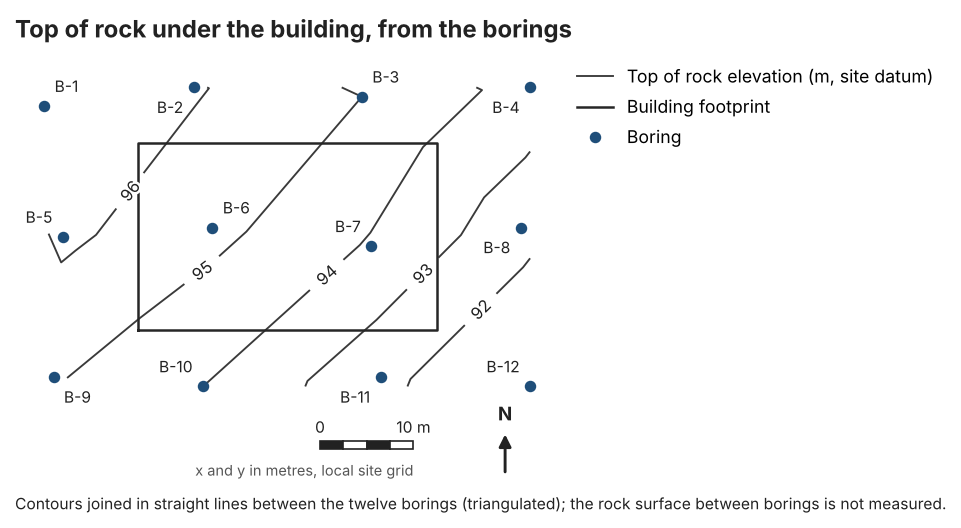
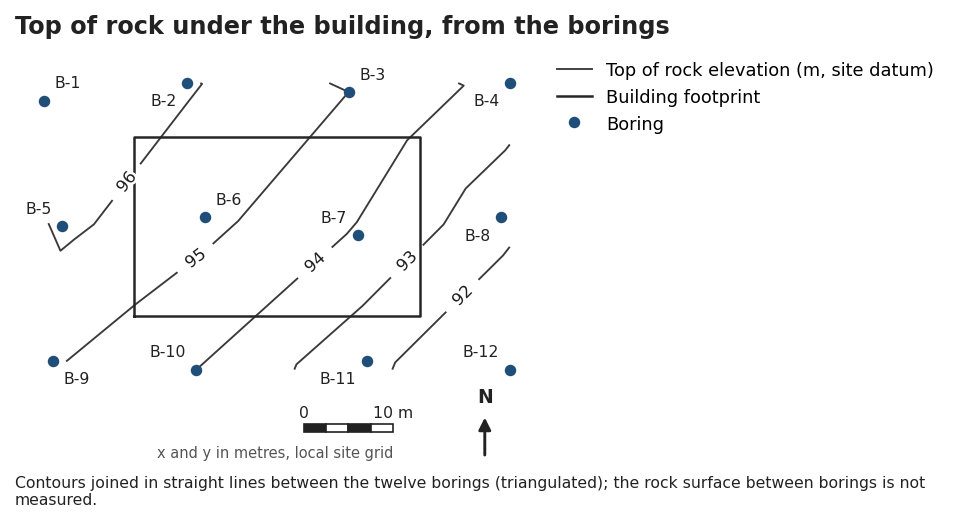
GM-315: review fixes in CHECK.md, the plot_data example figures re-drawn

diff --git a/module_work/gm315/CHECK.md b/module_work/gm315/CHECK.md
@@ -279,3 +279,25 @@ model-written code, so hosts with plot code off get these figures.
   got better or worse is GM-314's to measure.
 - The page tool has no `height_in`, `width_in`, `dpi` or `grid` argument
   (before this change too).
+
+## Review fixes (2026-11-13)
+
+Independent review: `notes/review_gm315.txt` in the drawings lead's folder (not in the repo). One line per finding:
+
+- B1 fixed: a single plot's footnote is broken to the figure's width (`data_plot.py`, panel_plot's `_fit_text`); the contour example's PNG is 6.37 in wide, smallest lettering 7.0 pt as printed (was 6.85 in, 6.64 pt; its test failed).
+- B2 fixed (test): `test_fill_bands_dimension_and_arrow_are_drawn` put the arrow's tail at 25 kPa, and its text crossed the diagram (the layout check was right); the tail is now at 34 kPa. B1 and B2 were the main CI job's failures.
+- B3 fixed: `reference_chart` with panels, or with a contour and no series, is refused by name in `run_plot_data`; it crashed with KeyError 'series' in the overlay.
+- B4 fixed: a contour grid over 250,000 values, more than 50,000 scattered points or more than 30 chosen levels is refused in plain words; at most 3 numbers per level (longest lines first), none past 300 separate pieces (warned). A noisy 100 x 100 grid: 100 s before, 0.8 s now.
+- B5 fixed: a panel's title or xlabel, a band label, dimension or arrow text that is not text, and a bad band or arrow colour, are refused under their own place (`panels[0] bands[0] label must be text`), not as "footnote" or "annotations[0]".
+- B6 fixed: `legend`'s description says that with panels there is a legend only when it is true (+29 characters; both pages' fingerprints must be re-recorded at the merge).
+- B7 not fixed, for the lead: where plot code is off, `nearest_example` attaches no example to a pile or settlement brief (the redraws' names need 'panels'); the fix changes `funhouse_agent/deep/tests/test_figure_runs.py:198` and `figure_helper.py` code, or renames the examples.
+- C1 not fixed: `to_dict()` carries `contour`, `panels` and `footnote` on every result; the tool's response is unchanged.
+- C2 fixed: `width_in` in the panels' echo is a plain float.
+- C3 fixed: one chosen level has no twin "at a single level", not "unevenly spaced".
+- C4 fixed: an all-missing z grid is refused as "has no values", with no numpy warning.
+- C5 fixed: points on one line are refused in plain words, without qhull's own message.
+- C6 not fixed (scope): `docs/user_manual/manual.html` was regenerated, and the figure_examples tool's description changed beyond the named sentences; both consistent.
+- C7 not fixed: with panels, `legend_position` and `scale_units` are ignored without a word (the tool function always sends them).
+- C8 not fixed: `filled: "false"` (a string) reads as true, as the existing flags do.
+- C9 not fixed: the settlement footnote's last word stands alone on its line (cosmetic).
+- The four `plot_data_*.png` pairs were re-drawn with `render_plot_data_examples.py` after these fixes, on the review machine (Windows, matplotlib 3.10.9). The committed ones were a different size for all four (the contour 961 x 528 px against 1028 x 506 here before B1's fix), so the builder's session laid out lettering differently from this machine.
